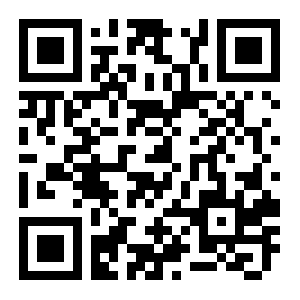
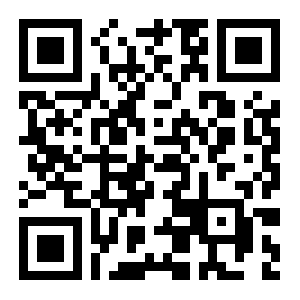
Add files via upload

diff --git a/QRController.cs b/QRController.cs
@@ -1,4 +1,8 @@
-using System.Web.Mvc;
+using System.IO;
+using System.Text;
+using System.Web;
+using System.Web.Mvc;
+
 
 namespace demo.Controllers
 {
@@ -7,8 +11,29 @@ namespace demo.Controllers
         // GET: QR
         public ActionResult index()
         {
-            erweima.Generate("http://baidu.com/");
+            erweima.Generate("http://2e4v704989.qicp.vip:55447/QR/uploadimg");
             return View();
+        }
+        //[HttpPost]
+        public ActionResult uploadimg()
+        {
+            if (Request.Files.Count > 0)
+            {
+                HttpPostedFileBase f = Request.Files["file1"];
+                f.SaveAs(@"C:\Users\Administrator\source\repos\demo\demo\ymx\" + f.FileName);
+            }
+            return View();
+        }
+        public string browseimg()
+        {
+            StringBuilder sb = new StringBuilder();
+            foreach (string img in Directory.GetFiles(Server.MapPath("/ymx/")))
+            {
+                string file = img.Substring(img.LastIndexOf("\\") + 1);
+                sb.Append("<img src='../../ymx/" + file + "' ><br/>");
+                
+            }
+            return sb.ToString();
         }
     }
 }

diff --git a/erweima.cs b/erweima.cs
@@ -23,7 +23,7 @@ namespace demo
             options.Margin = 1;
             writer.Options = options;
             Bitmap map = writer.Write(text);
-            string filename = @"E:\ymx\img\qr.png";
+            string filename = @"C:\Users\Administrator\source\repos\demo\demo\img\qr.png";
             map.Save(filename, ImageFormat.Png);
             map.Dispose();
         }
